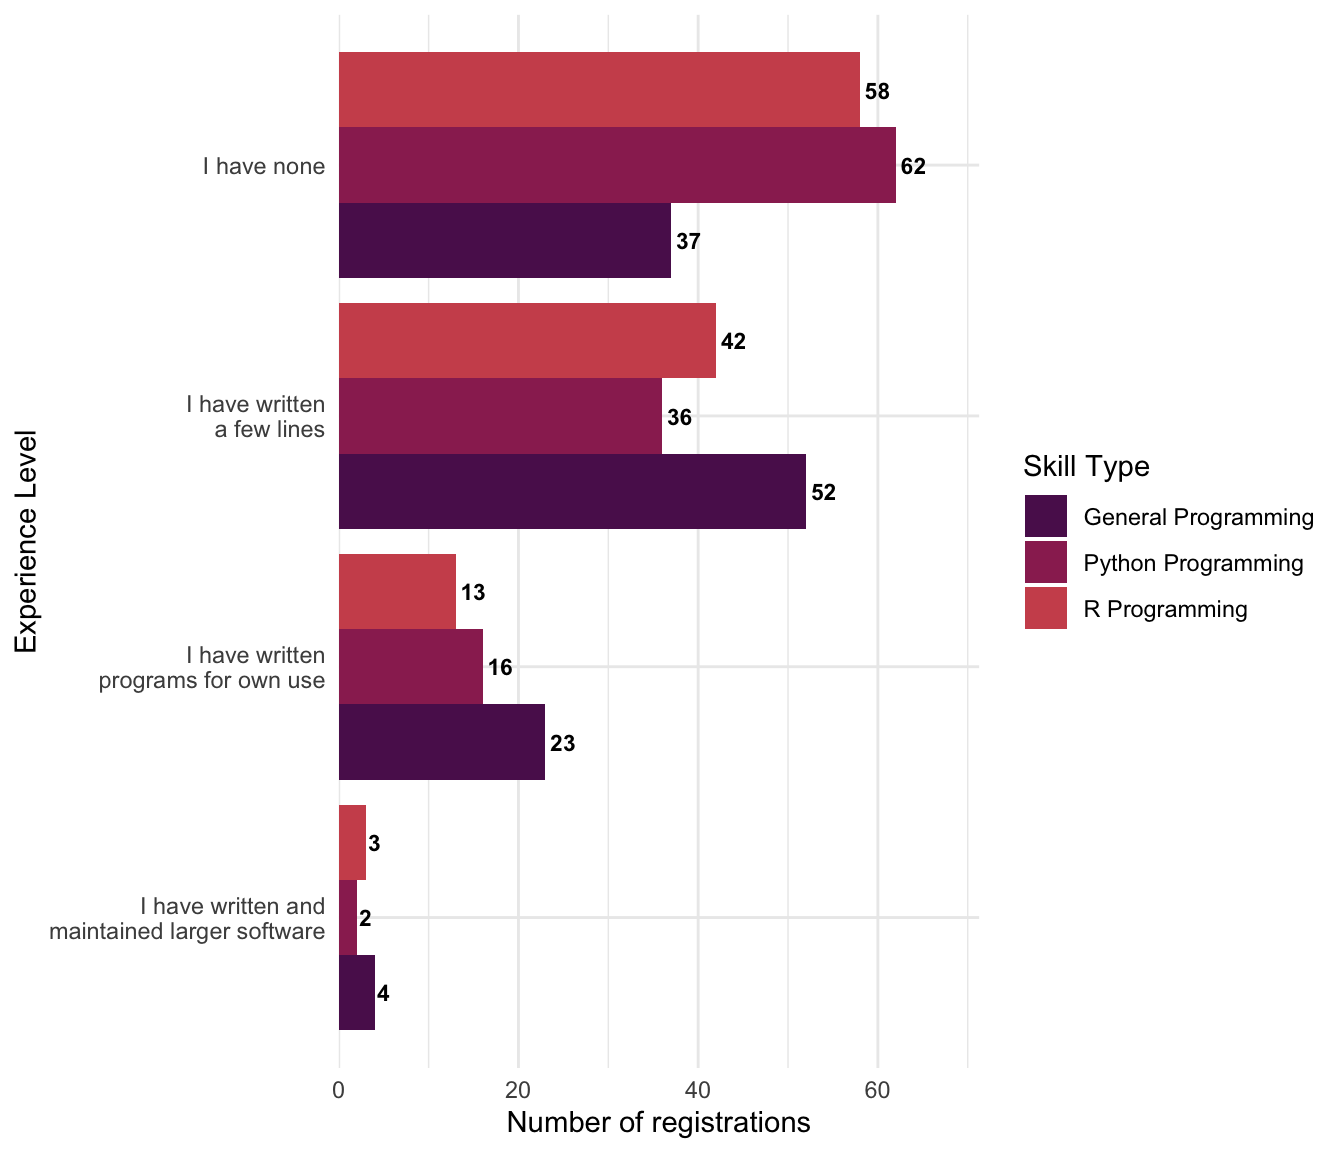
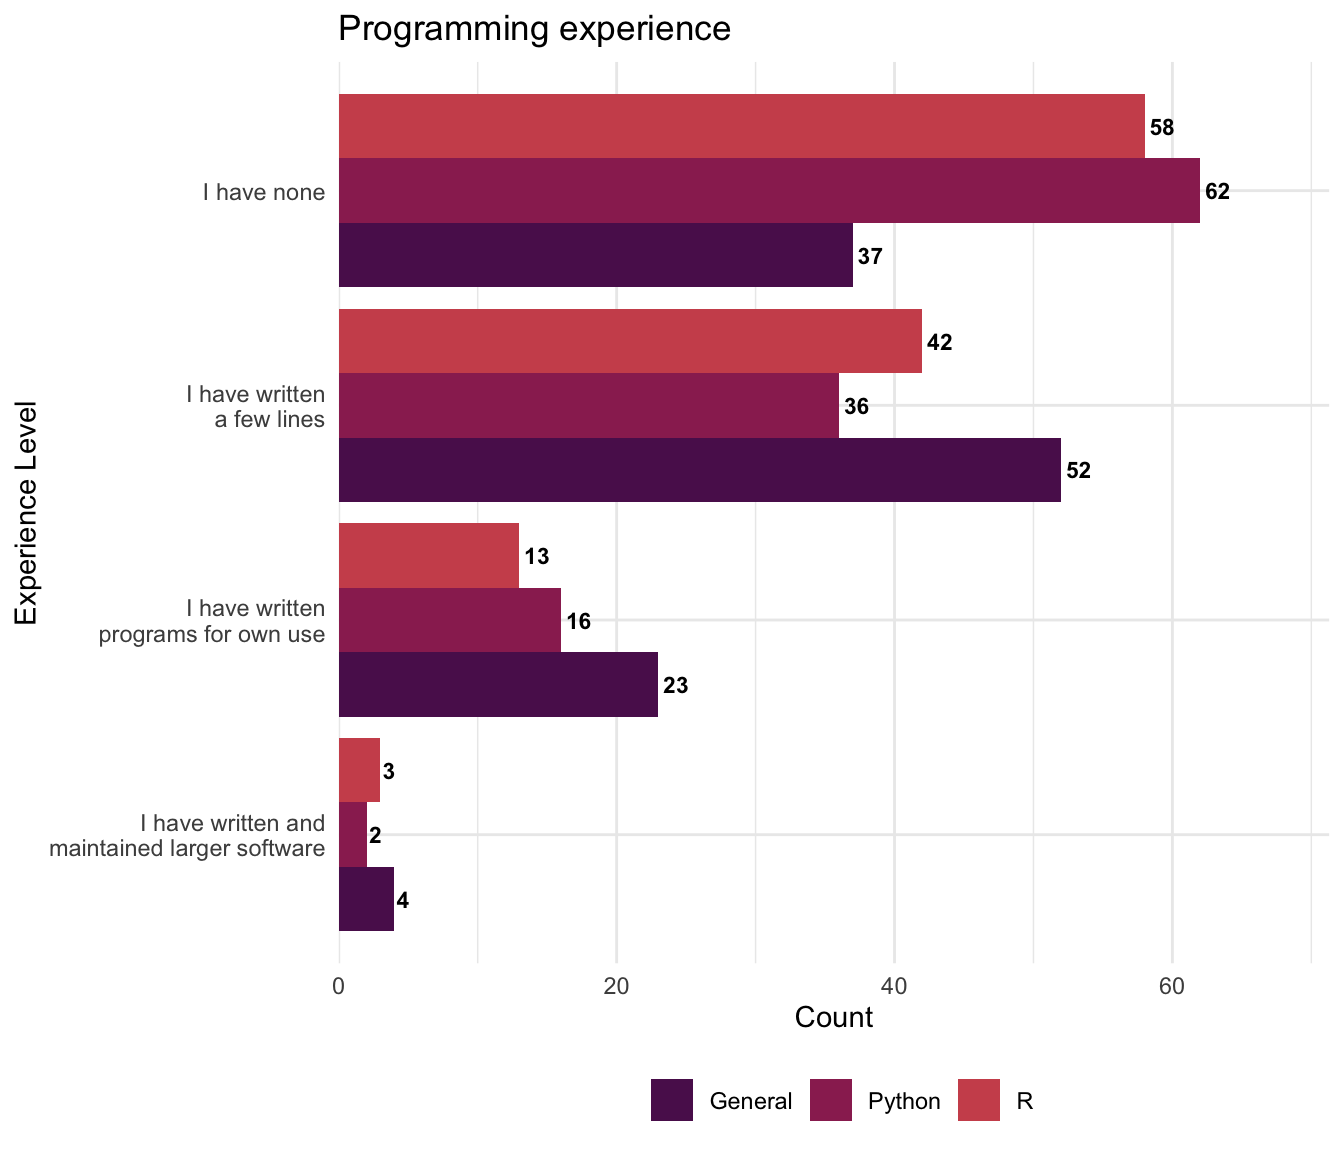
Change some plot styles and text review

diff --git a/data_analysis.html b/data_analysis.html
@@ -64,7 +64,6 @@ ul.task-list li input[type="checkbox"] {
 
 
 <p>We’re thrilled to have received <strong>116 registrations</strong> so far from passionate learners worldwide who are ready to transform water, sanitation, and hygiene data into actionable insights! 📊</p>
-<p>Registrations are still open: <a href="">https://ee-eu.kobotoolbox.org/single/7V3qeDYD</a></p>
 <div class="cell">
 <div class="cell-output-display">
 <div>
@@ -84,14 +83,22 @@ ul.task-list li input[type="checkbox"] {
 </div>
 </div>
 </div>
-<p><strong>📚 Meeting learners at every level:</strong> While 68% of participants hold advanced degrees and 47% are employed full-time, 50% are beginners in R programming. This mix creates a unique learning environment where everyone brings valuable perspectives - whether you’re taking your first steps in coding or bringing years of WASH expertise ready to add data science to your toolkit. 💻✨</p>
-<div class="cell quarto-layout-panel" data-layout-ncol="2">
-<div class="quarto-layout-row">
-<div class="quarto-layout-cell" style="flex-basis: 50.0%;justify-content: center;">
-<p><img src="data_analysis_files/figure-html/plot-education-employment-1.png" class="img-fluid" width="576"></p>
+<p><strong>📚 Meeting learners at every level:</strong> While 68% of participants hold advanced degrees and 47% are employed full-time, 50% are beginners in R programming. This mix creates a unique learning environment where everyone brings valuable perspectives. Whether you’re taking your first steps in coding or bringing years of WASH expertise we’re ready to support you in this path of adding data science to your toolkit. 💻✨</p>
+<div class="cell">
+<div class="cell-output-display">
+<div>
+<figure class="figure">
+<p><img src="data_analysis_files/figure-html/plot-education-stacked-1.png" class="img-fluid figure-img" width="960"></p>
+</figure>
 </div>
-<div class="quarto-layout-cell" style="flex-basis: 50.0%;justify-content: center;">
-<p><img src="data_analysis_files/figure-html/plot-education-employment-2.png" class="img-fluid" width="576"></p>
+</div>
+</div>
+<div class="cell">
+<div class="cell-output-display">
+<div>
+<figure class="figure">
+<p><img src="data_analysis_files/figure-html/plot-employment-stacked-1.png" class="img-fluid figure-img" width="960"></p>
+</figure>
 </div>
 </div>
 </div>
@@ -114,7 +121,8 @@ ul.task-list li input[type="checkbox"] {
 </div>
 </div>
 </div>
-<p>Join this vibrant community committed to using data science for open research and data. Together, we’re building the knowledge to tackle water and sanitation challenges. 💪🌊</p>
+<p>Join this vibrant community committed to using data science for open research and data. Together, we’re building the knowledge to tackle water and sanitation challenges. 🌊</p>
+<p>Registrations are still open: <a href="">https://ee-eu.kobotoolbox.org/single/7V3qeDYD</a></p>
 <p>#DataScience #WASH #OpenData #OpenScience #RStats</p>
 
 </main>
